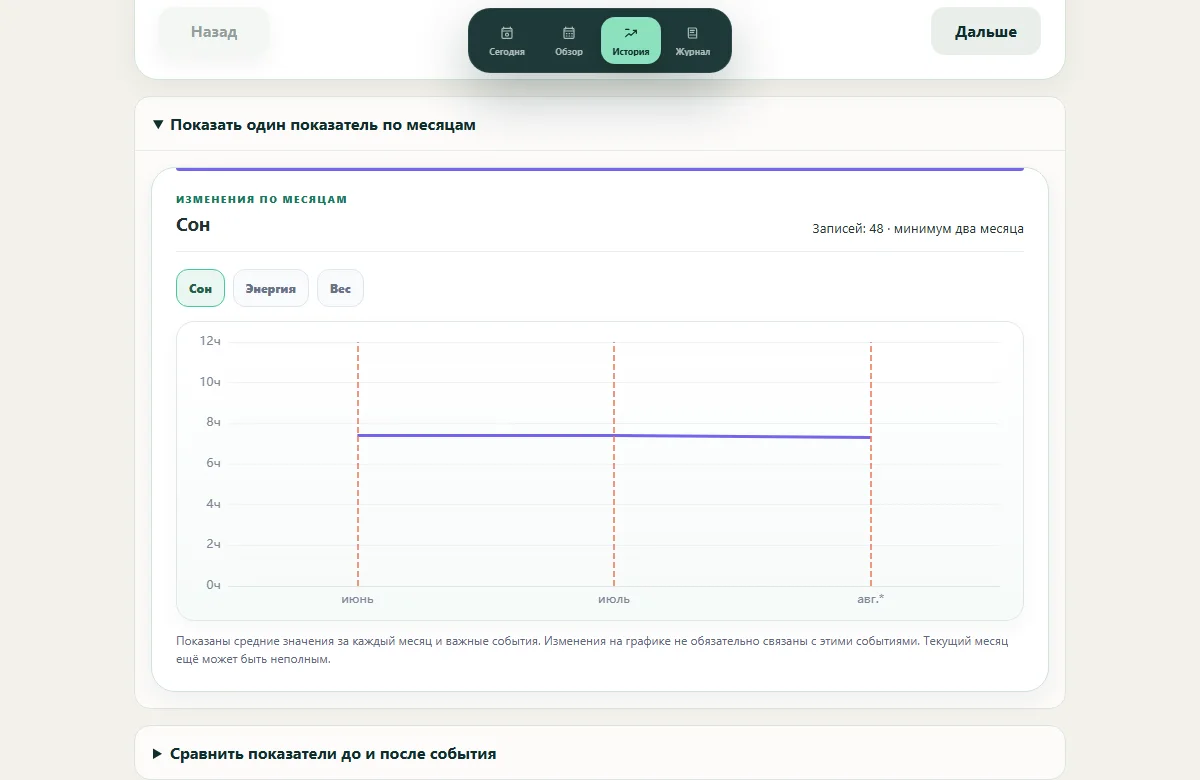
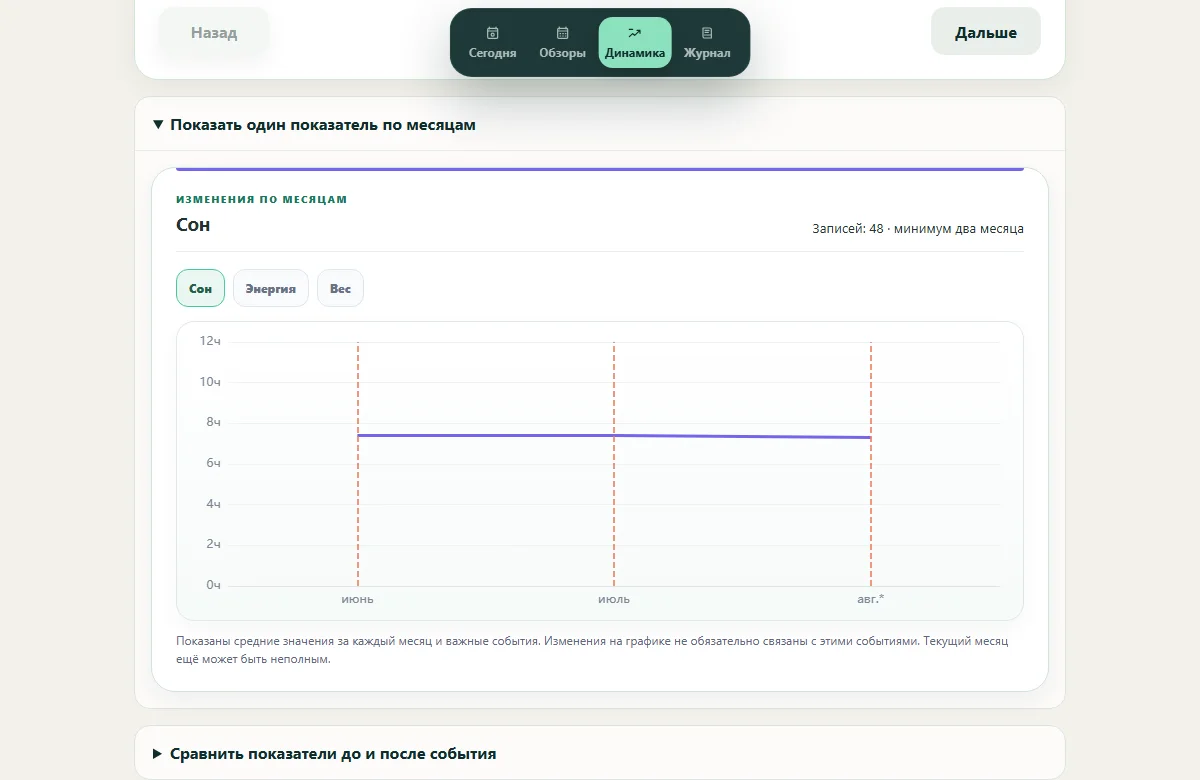
feat(landing): refresh the gallery for journal and review workflows

Changed region(s): [[0.37, 0.0, 0.6475, 0.1231], [0.8017, 0.0308, 0.8325, 0.0615], [0.1542, 0.0308, 0.185, 0.0615]]

diff --git a/e2e/landing.e2e.ts b/e2e/landing.e2e.ts
@@ -15,14 +15,7 @@ test('keeps the public landing independent from authentication and product stora
   await expect(page.getByRole('link', { name: 'Посмотреть примеры' })).toHaveAttribute('href', '#product');
   await page.getByRole('link', { name: 'Все возможности', exact: false }).click();
   await expect(page.locator('#features')).toBeInViewport();
-  for (const name of [
-    'Записи дня',
-    'Неделя и месяц',
-    'История изменений',
-    'Цель и личный эксперимент',
-    'Журнал',
-    'Копии и внешний анализ',
-  ]) {
+  for (const name of ['Записи дня', 'Неделя и месяц', 'Динамика', 'Цель и личный эксперимент', 'Журнал', 'Копии и внешний анализ']) {
     await expect(page.locator('#features').getByRole('heading', { name, exact: true })).toBeVisible();
   }
   await expect(page.getByRole('link', { name: 'Политика конфиденциальности', exact: true })).toHaveAttribute('href', '/data-policy');
@@ -160,7 +153,7 @@ test('keeps the landing readable and accessible across supported widths', async 
 test('lets visitors browse every example with the keyboard without registering', async ({ page }) => {
   await page.goto('/');
   await page.getByRole('tab', { name: 'Сегодня', exact: true }).focus();
-  for (const title of ['Неделя', 'Месяц', 'История', 'Журнал', 'Настройки', 'Сегодня']) {
+  for (const title of ['Неделя', 'Месяц', 'Динамика', 'Журнал', 'Настройки', 'Сегодня']) {
     await page.keyboard.press('ArrowRight');
     const tab = page.getByRole('tab', { name: title, exact: true });
     await expect(tab).toBeFocused();
@@ -177,7 +170,7 @@ test('lets visitors browse every example with the keyboard without registering',
   await expect(page.getByRole('tab', { name: 'Сегодня', exact: true })).toHaveAttribute('aria-selected', 'true');
   for (const width of [390, 1440]) {
     await page.setViewportSize({ width, height: 900 });
-    for (const title of ['Сегодня', 'Неделя', 'Месяц', 'История', 'Журнал', 'Настройки']) {
+    for (const title of ['Сегодня', 'Неделя', 'Месяц', 'Динамика', 'Журнал', 'Настройки']) {
       await page.getByRole('tab', { name: title, exact: true }).click();
       const image = page.getByRole('tabpanel').getByRole('img');
       await expect(image).toHaveJSProperty('complete', true);

diff --git a/src/features/landing/ui/LandingPage.vue b/src/features/landing/ui/LandingPage.vue
@@ -18,12 +18,18 @@ const features = [
     title: 'Неделя и месяц',
     text: 'Вернитесь к записям, событиям и итогам. Сохранённые выводы недель соберутся в месяце. Обзор можно заполнить и по памяти.',
   },
-  { title: 'История изменений', text: 'События, решения и графики за 3–12 месяцев. Можно выбрать период для сравнения.' },
+  {
+    title: 'Динамика',
+    text: 'Посмотрите, что менялось со временем. Сравнивайте записи за 3, 6 или 12 месяцев и возвращайтесь к событиям и выводам.',
+  },
   {
     title: 'Цель и личный эксперимент',
     text: 'Если хотите что-то изменить, выберите цель или попробуйте одно условие в личном эксперименте. Запишите, что заметили. Эти возможности необязательны.',
   },
-  { title: 'Журнал', text: 'Храните отдельные итоги, события и мысли. Находите их по словам, датам и категориям.' },
+  {
+    title: 'Журнал',
+    text: 'Ищите заметки дня, итоги, события и личные напоминания по словам. Из найденной записи можно открыть оригинал.',
+  },
   {
     title: 'Копии и внешний анализ',
     text: 'Скачайте резервную копию или восстановите записи из неё. Для разбора в выбранной нейросети можно отдельно подготовить данные и текст с вопросами.',

diff --git a/src/features/landing/ui/LandingGallery.vue b/src/features/landing/ui/LandingGallery.vue
@@ -36,7 +36,7 @@ const screens = [
     desktop: monthDesktop,
   },
   {
-    title: 'История',
+    title: 'Динамика',
     heading: 'Проследите изменения со временем',
     text: 'Посмотрите графики за несколько месяцев рядом с событиями и решениями из ваших записей.',
     image: history,
@@ -44,15 +44,15 @@ const screens = [
   },
   {
     title: 'Журнал',
-    heading: 'Найдите то, что уже сделали',
-    text: 'Сохраняйте отдельные итоги и события. Ищите записи по словам, датам и категориям.',
+    heading: 'Найдите свою запись',
+    text: 'Ищите по словам среди заметок дня, итогов, событий и напоминаний. Откройте найденную запись, чтобы перечитать её целиком.',
     image: journal,
     desktop: journalDesktop,
   },
   {
     title: 'Настройки',
     heading: 'Настройте дневник под себя',
-    text: 'Выберите нужные разделы, сохраните личную цель и скачайте резервную копию записей.',
+    text: 'Выберите разделы дневника, настройте эксперимент и скачайте резервную копию записей.',
     image: settings,
     desktop: settingsDesktop,
   },

diff --git a/e2e/pwa-update.e2e.ts b/e2e/pwa-update.e2e.ts
@@ -126,7 +126,7 @@ test('refreshes an existing public landing after a real worker update and keeps 
   await expect(page.locator('meta[name="pwa-test-version"]')).toHaveAttribute('content', 'A');
   await activateNextVersion(page);
   await expect(page.locator('meta[name="pwa-test-version"]')).toHaveAttribute('content', 'B', { timeout: 15_000 });
-  for (const title of ['Сегодня', 'Неделя', 'Месяц', 'История', 'Журнал', 'Настройки']) {
+  for (const title of ['Сегодня', 'Неделя', 'Месяц', 'Динамика', 'Журнал', 'Настройки']) {
     await page.getByRole('tab', { name: title, exact: true }).click();
     await expect(page.getByRole('tabpanel').getByRole('img')).toHaveJSProperty('naturalWidth', 390);
   }
